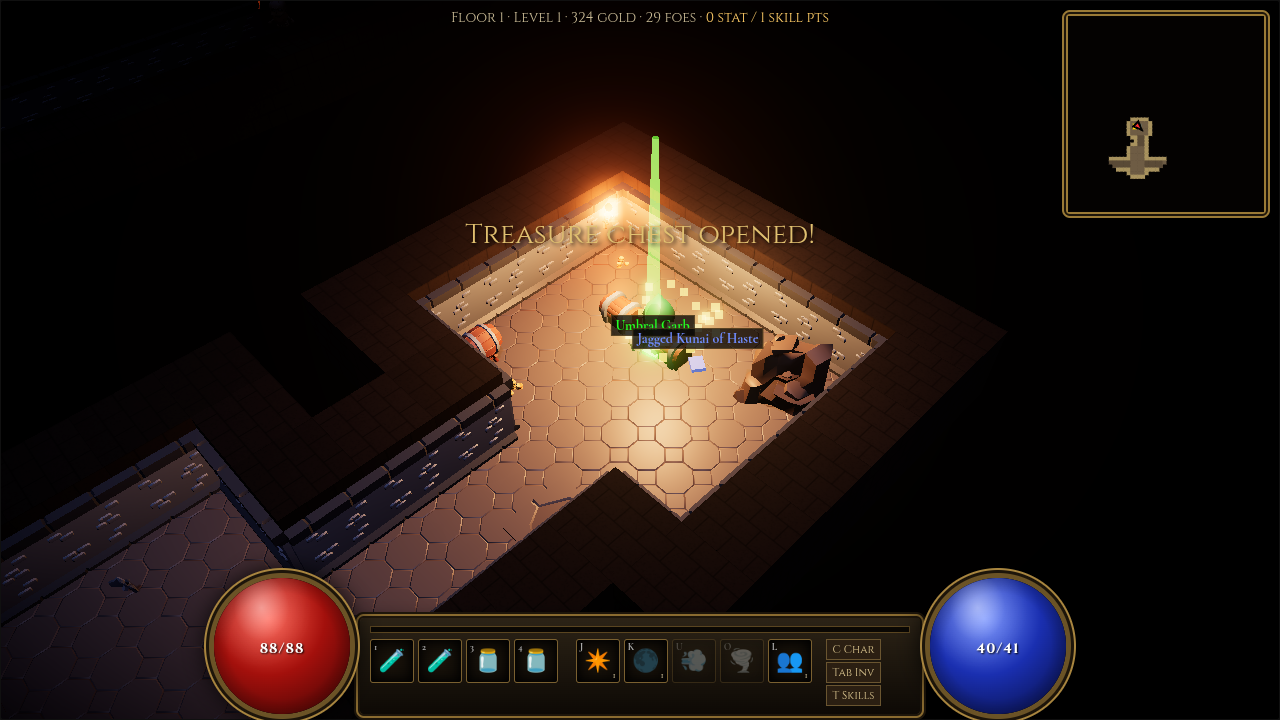
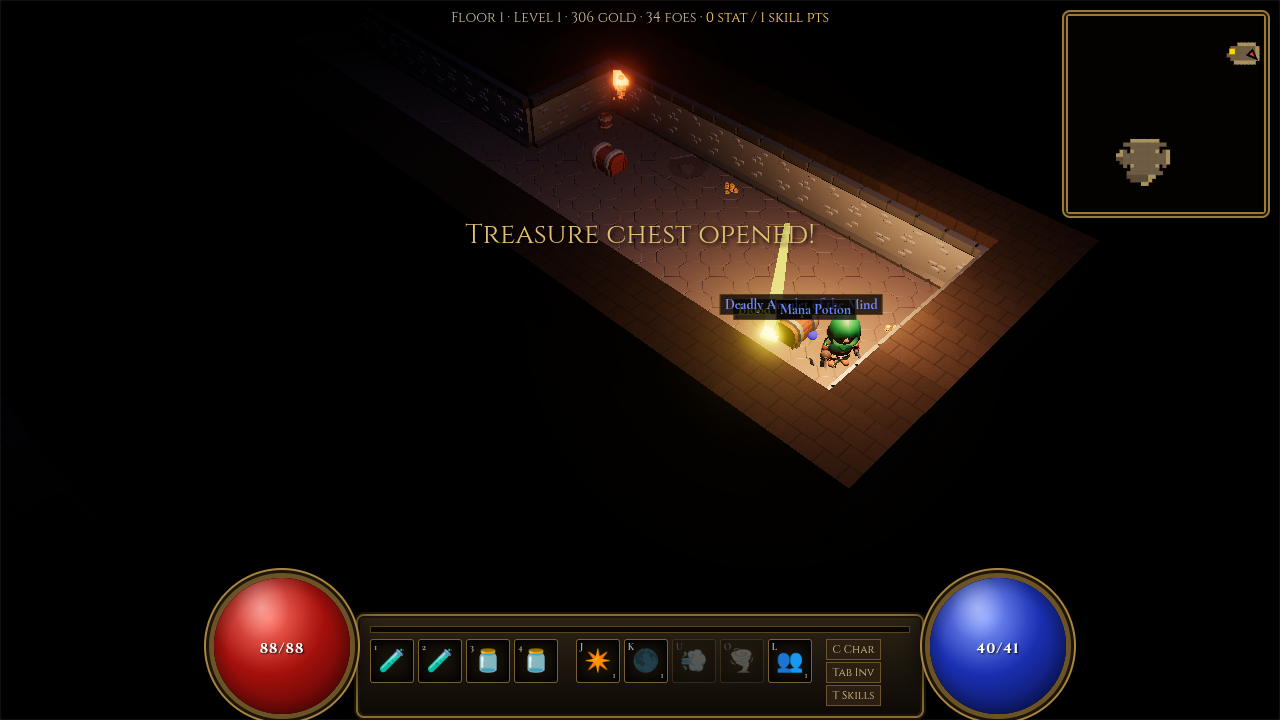
Stage 4: ability damage/CDR/life-on-hit affixes, unique effects (pierce, step reset, damage reduction), richer drops from brutes/champs/chests, char sheet stats; minimap hides with inventory

diff --git a/game.js b/game.js
@@ -138,20 +138,22 @@ const BASES=[
 const AFF={str:['Strength','+{v} to Strength',1,4],dex:['Dexterity','+{v} to Dexterity',1,4],vit:['Vitality','+{v} to Vitality',1,4],ene:['Energy','+{v} to Energy',1,4],
  life:['Life','+{v} to Life',3,8],mana:['Mana','+{v} to Mana',2,6],ed:['Enhanced Damage','+{v}% Enhanced Damage',4,10],mind:['Min Damage','+{v} to Minimum Damage',1,2],maxd:['Max Damage','+{v} to Maximum Damage',1,3],
  ias:['Attack Speed','+{v}% Increased Attack Speed',3,6],ll:['Life Steal','{v}% Life Stolen per Hit',1,1],armor:['Armor','+{v} Defense',3,8],ms:['Run Speed','+{v}% Faster Run/Walk',3,5],
- mf:['Magic Find','{v}% Better Chance of Getting Magic Items',4,8],gf:['Gold Find','{v}% Extra Gold from Monsters',6,12],regen:['Regen','Replenish Life +{v}',1,2],crit:['Crit','+{v}% Critical Strike Chance',1,3]};
-const PRE={str:'Brutal',dex:'Swift',vit:'Hale',ene:'Mystic',life:'Vital',mana:'Lucid',ed:'Cruel',mind:'Sharp',maxd:'Jagged',armor:'Sturdy',ms:'Fleet',crit:'Deadly'};
-const SUF={ias:'of Haste',ll:'of the Leech',mf:'of Fortune',gf:'of Greed',regen:'of Renewal',str:'of Might',dex:'of Skill',vit:'of Life',ene:'of the Mind',armor:'of Warding',life:'of the Whale'};
+ mf:['Magic Find','{v}% Better Chance of Getting Magic Items',4,8],gf:['Gold Find','{v}% Extra Gold from Monsters',6,12],regen:['Regen','Replenish Life +{v}',1,2],crit:['Crit','+{v}% Critical Strike Chance',1,3],sk:['Ability Damage','+{v}% Ability Damage',3,6],cdr:['Cooldown Reduction','{v}% Faster Ability Cooldowns',2,3],loh:['Life on Hit','+{v} Life on Hit',1,1]};
+const PRE={sk:'Arcane',loh:'Thirsting',str:'Brutal',dex:'Swift',vit:'Hale',ene:'Mystic',life:'Vital',mana:'Lucid',ed:'Cruel',mind:'Sharp',maxd:'Jagged',armor:'Sturdy',ms:'Fleet',crit:'Deadly'};
+const SUF={cdr:'of Quickening',ias:'of Haste',ll:'of the Leech',mf:'of Fortune',gf:'of Greed',regen:'of Renewal',str:'of Might',dex:'of Skill',vit:'of Life',ene:'of the Mind',armor:'of Warding',life:'of the Whale'};
 const RNAME1=['Grim','Dusk','Blood','Night','Ash','Raven','Doom','Storm','Bone','Wraith'],RNAME2=['Bite','Veil','Shroud','Grasp','Song','Fang','Coil','Mark','Edge','Ward'];
 const SET={name:'Umbral Regalia',pieces:{head:'Umbral Hood',chest:'Umbral Garb',gloves:'Umbral Wraps',boots:'Umbral Tabi',ring:'Umbral Seal'},
  bonus:{2:{dex:10,ms:10},3:{ed:30,life:30},5:{ias:25,crit:10,ll:4}},own:{dex:6,life:15,armor:10}};
-const UNIQ=[{n:'Whisper of the Void',b:'Katana',a:{ed:120,ias:20,ll:5,dex:10}},{n:'Crimson Fang',b:'Kunai',a:{ed:90,crit:10,maxd:6}},
- {n:'Hollow Crown',b:'Mask',a:{life:40,mf:40,ene:15}},{n:'Ashen Step',b:'Tabi Boots',a:{ms:30,dex:12,regen:4}},{n:'Eye of Nightfall',b:'Amulet',a:{str:10,dex:10,vit:10,ene:10,crit:5}},{n:'Ironsilk Shroud',b:'Chain Vest',a:{armor:80,vit:25,life:30}}];
+const UNIQ=[{n:'Whisper of the Void',b:'Katana',a:{ed:110,ias:20,ll:4,dex:10},fx:'pierce',fxt:'Shurikens pierce through up to 2 extra enemies'},
+ {n:'Crimson Fang',b:'Kunai',a:{ed:85,crit:8,maxd:6},fx:'stepreset',fxt:'Killing an enemy resets Shadow Step cooldown'},
+ {n:'Hollow Crown',b:'Mask',a:{life:35,mf:40,loh:4},fx:'',fxt:''},{n:'Ashen Step',b:'Tabi Boots',a:{ms:25,dex:12,cdr:10},fx:'',fxt:''},
+ {n:'Eye of Nightfall',b:'Amulet',a:{str:10,dex:10,vit:10,ene:10,sk:25},fx:'',fxt:''},{n:'Ironsilk Shroud',b:'Chain Vest',a:{armor:60,vit:20,life:30},fx:'dr',fxt:'Take 15% less damage from all sources'}];
 let uid=1;
 function scaleAff(k,il){const a=AFF[k];return Math.max(1,Math.round(R(a[2],a[3])*(1+il*0.18)));}
 function makeItem(il,mf=0,forced){
   let r=forced??0;if(forced==null){const x=Math.random()*100/(1+mf/100);r=x<1.2?4:x<3?3:x<12?2:x<40?1:0;}
   let base=pick(BASES),it={id:uid++,r,il,a:{},base};
-  if(r===4){const u=pick(UNIQ);base=BASES.find(b=>b.n===u.b);it.base=base;it.name=u.n;for(const k in u.a)it.a[k]=Math.round(u.a[k]*(1+il*0.05));}
+  if(r===4){const u=pick(UNIQ);base=BASES.find(b=>b.n===u.b);it.base=base;it.name=u.n;for(const k in u.a)it.a[k]=Math.round(u.a[k]*(1+il*0.05));it.fx=u.fx;it.fxt=u.fxt;}
   else if(r===3){const sl=pick(Object.keys(SET.pieces));base=BASES.find(b=>b.s===sl);it.base=base;it.name=SET.pieces[sl];it.set=true;Object.assign(it.a,SET.own);}
   else{const keys=Object.keys(AFF).sort(()=>Math.random()-.5),n=r===1?RI(1,2):r===2?RI(3,6):0;let p=null,s=null;
     for(let i=0;i<n;i++){const k=keys[i];it.a[k]=scaleAff(k,il);if(!p&&PRE[k])p=PRE[k];else if(!s&&SUF[k])s=SUF[k];}
@@ -182,7 +184,7 @@ function recalc(){S.str=P.str+stat('str');S.dex=P.dex+stat('dex');S.vit=P.vit+st
   const w=P.eq.weapon;S.dmin=(w?w.dmg[0]:1)+stat('mind');S.dmax=Math.max(S.dmin,(w?w.dmg[1]:3)+stat('maxd'));
   S.ed=stat('ed')+S.str*0.75+S.dex*0.75+P.skills.mastery*5;S.ias=stat('ias');S.crit=5+S.dex*0.1+stat('crit')+P.skills.mastery*3;
   S.armor=Object.values(P.eq).reduce((a,i)=>a+(i&&i.ar||0),0)+stat('armor')+Math.floor(S.dex/4);S.ll=stat('ll');S.ms=stat('ms');S.mf=stat('mf');S.gf=stat('gf');S.regen=stat('regen');
-  S.dodge=Math.min(40,P.skills.evasion*4);S.aps=1.7*(1+S.ias/100);}
+  S.dodge=Math.min(40,P.skills.evasion*4);S.aps=1.7*(1+S.ias/100);S.sk=stat('sk');S.cdr=Math.min(40,stat('cdr'));S.loh=stat('loh');const fx=new Set(Object.values(P.eq).filter(Boolean).map(i=>i.fx).filter(Boolean));S.pierce=fx.has('pierce');S.stepreset=fx.has('stepreset');S.dr=fx.has('dr')?15:0;}
 function rollDmg(mult=1){let d=R(S.dmin,S.dmax)*(1+S.ed/100)*mult;const c=Math.random()*100<S.crit;if(c)d*=2;return{d:Math.round(d),c};}
 const xpNeed=l=>Math.round(100*Math.pow(l,1.6));
 // ---------- meshes ----------
@@ -276,7 +278,7 @@ function popText(pos,txt,col,cls=''){if(dmgNums.length>45){const o=dmgNums.shift
 let msgT=0;function msg(t){$('#msg').textContent=t;msgT=2.5;}
 function hitEnemy(en,d,c,src){if(en.hp<=0)return;en.hp-=d;if(!en.awake){en.awake=true;enemies.forEach(o=>{if(!o.awake&&o!==en&&o.g.position.distanceTo(en.g.position)<9&&los(o.g.position,en.g.position)){o.awake=true;o.ch&&play(o.ch,'Taunt',{once:true,speed:2.2,fade:0.25});}});}popText(en.g.position,c?d+'!':d,c?'#ffb020':'#f2ece0',c?'crit':'');
   if(P.skills.venom&&src!=='poison')en.poison=3,en.pdps=(S.dmin+S.dmax)/2*0.1*P.skills.venom;
-  if(S.ll&&src!=='poison')P.hp=Math.min(S.maxhp,P.hp+d*S.ll/100);
+  if(src!=='poison'){if(S.ll)P.hp=Math.min(S.maxhp,P.hp+d*S.ll/100);if(S.loh)P.hp=Math.min(S.maxhp,P.hp+S.loh);}
   en.flash=0.12;const hp=v4.copy(en.g.position).setY(1.1);burstP(hp,c?0xffdd55:0xaa2222,c?10:5,2.5,0.25,0.4);
   if(src&&src.isVector3){const kb=src.clone().setY(0).normalize().multiplyScalar(en.t.n==='Gloom Brute'?0.15:0.35);if(free(en.g.position.x+kb.x,en.g.position.z+kb.z,en.t.r*0.8))en.g.position.add(kb);}
   if(c){hitStop=Math.max(hitStop,0.05);shake=Math.max(shake,0.15);}if(en.ch&&en.hp>0&&!en.ch.lock)play(en.ch,'Hit_A',{once:true,speed:1.6});
@@ -292,10 +294,10 @@ function enemyStrike(e){const ep=e.g.position,d=ep.distanceTo(P.pos);
   else if(d<e.t.range+0.7)hurtPlayer(e.dm);
   if(e.tel){disposeObj(e.tel.g);e.tel=null;}}
 function killEnemy(en){if(en.tel){disposeObj(en.tel.g);en.tel=null;}en.b.userData.en=null;burstP(v4.copy(en.g.position).setY(1),0xddddcc,18,4,0.3,0.7);burstP(v4,0x660000,10,2,0.4,0.9);shake=Math.max(shake,0.12);hitStop=Math.max(hitStop,0.04);
-  if(en.ch){play(en.ch,'Death_A',{once:true});corpses.push({g:en.g,ch:en.ch,t:2.2});}else disposeObj(en.g);enemies=enemies.filter(e=>e!==en);gainXp(Math.round(en.t.xp*(1+(depth-1)*0.4)*(en.champ?3:1)));
+  if(en.ch){play(en.ch,'Death_A',{once:true});corpses.push({g:en.g,ch:en.ch,t:2.2});}else disposeObj(en.g);enemies=enemies.filter(e=>e!==en);if(S.stepreset){P._stepKill=true;P.cds.step=0;popText(P.pos,'STEP READY','#c58cff','skill');}gainXp(Math.round(en.t.xp*(1+(depth-1)*0.4)*(en.champ?3:1)));
   const p=en.g.position,il=depth*2+P.lvl;
   if(Math.random()<0.55)dropGold(p,Math.round(R(3,10)*il*(1+S.gf/100)));
-  const n=en.champ?RI(1,3):Math.random()<0.35?1:0;for(let i=0;i<n;i++)dropItem(p,makeItem(il,S.mf+(en.champ?100:0)));
+  const heavy=en.t.kind==='heavy';const n=en.champ?RI(1,3):Math.random()<(heavy?0.6:0.3)?1:0;for(let i=0;i<n;i++)dropItem(p,makeItem(il+(heavy?1:0)+(en.champ?2:0),S.mf+(en.champ?100:0)+(heavy?40:0)));
   if(Math.random()<0.15)dropItem(p,{id:uid++,potion:Math.random()<.6?'hp':'mp'});}
 function gainXp(x){P.xp+=x;while(P.xp>=xpNeed(P.lvl)){P.xp-=xpNeed(P.lvl);P.lvl++;P.pts+=5;P.sp+=1;recalc();P.hp=S.maxhp;P.mp=S.maxmp;msg(`Level ${P.lvl}! +5 attribute, +1 skill point`);
   const f=new THREE.Mesh(new THREE.CylinderGeometry(1,1,6,16,1,true),new THREE.MeshBasicMaterial({color:0xffdd88,transparent:true,opacity:0.4,side:2}));f.position.copy(P.pos).setY(3);scene.add(f);fx.push({m:f,t:1});}ui();}
@@ -321,7 +323,7 @@ function unequip(slot){const it=P.eq[slot];if(!it)return;if(placeInv(it)){delete
 // ---------- tooltip ----------
 function tipHtml(it,cmp){let h=`<div class="n r${it.r}">${it.name}</div><div class="r${it.r}">${it.r===0?'':RAR[it.r]+' '}${it.base.n}</div>`;
   if(it.dmg)h+=`<div>Damage: ${it.dmg[0]} to ${it.dmg[1]}</div>`;if(it.ar)h+=`<div>Defense: ${it.ar}</div>`;h+=`<div class="g">Item Level ${it.il}</div>`;
-  for(const k in it.a)h+=`<div class="${it.set?'s':'a'}">${AFF[k][1].replace('{v}',it.a[k])}</div>`;
+  if(it.fxt)h+=`<div style="color:#ff9a30">${it.fxt}</div>`;for(const k in it.a)h+=`<div class="${it.set?'s':'a'}">${AFF[k][1].replace('{v}',it.a[k])}</div>`;
   if(it.set){h+=`<br><div class="s">${SET.name}</div>`;const n=Object.values(P.eq).filter(i=>i&&i.set).length;
     for(const t in SET.bonus)h+=`<div class="${n>=t?'s':'g'}">(${t} items) ${Object.entries(SET.bonus[t]).map(([k,v])=>AFF[k][1].replace('{v}',v)).join(', ')}</div>`;}
   h+=`<div class="g">Sell value: ${it.value} gold</div>`;if(cmp&&cmp.base)h+=compareHtml(it,cmp);else if(cmp===null)h+='<div class="g">Slot empty — pure upgrade</div>';return h;}
@@ -341,7 +343,7 @@ function ui(){recalc();
   const c=$('#char');c.innerHTML=`<h2>Nyx — Shadow Ninja</h2><div class="row"><span>Level</span><span>${P.lvl}</span></div><div class="row"><span>Experience</span><span>${P.xp} / ${xpNeed(P.lvl)}</span></div><div class="row"><span>Gold</span><span>${P.gold}</span></div>
    <div class="row"><span>Stat points</span><span>${P.pts}</span></div>`+[['str','Strength'],['dex','Dexterity'],['vit','Vitality'],['ene','Energy']].map(([k,n])=>`<div class="row attr"><span>${n}</span><span>${S[k]}${P.pts?`<button class="plus" data-a="${k}">+</button>`:''}</span></div>`).join('')+
    `<br><div class="row"><span>Damage</span><span>${Math.round(S.dmin*(1+S.ed/100))}-${Math.round(S.dmax*(1+S.ed/100))}</span></div><div class="row"><span>Attacks / sec</span><span>${S.aps.toFixed(2)}</span></div><div class="row"><span>Crit chance</span><span>${S.crit.toFixed(1)}%</span></div>
-   <div class="row"><span>Defense</span><span>${S.armor}</span></div><div class="row"><span>Life</span><span>${Math.round(S.maxhp)}</span></div><div class="row"><span>Mana</span><span>${Math.round(S.maxmp)}</span></div><div class="row"><span>Life steal</span><span>${S.ll}%</span></div><div class="row"><span>Magic find</span><span>${S.mf}%</span></div><div class="row"><span>Dodge</span><span>${S.dodge}%</span></div>`;
+   <div class="row"><span>Defense</span><span>${S.armor}</span></div><div class="row"><span>Life</span><span>${Math.round(S.maxhp)}</span></div><div class="row"><span>Mana</span><span>${Math.round(S.maxmp)}</span></div><div class="row"><span>Life steal</span><span>${S.ll}%</span></div><div class="row"><span>Magic find</span><span>${S.mf}%</span></div><div class="row"><span>Dodge</span><span>${S.dodge}%</span></div><div class="row"><span>Ability damage</span><span>+${S.sk}%</span></div><div class="row"><span>Cooldown reduction</span><span>${S.cdr}%</span></div><div class="row"><span>Damage taken (vs 10 hit)</span><span>${Math.max(1,Math.round(10*100/(100+S.armor)*(1-S.dr/100)))}</span></div>${S.pierce?'<div class="row" style="color:#ff9a30"><span>Shurikens pierce</span><span>✓</span></div>':''}${S.stepreset?'<div class="row" style="color:#ff9a30"><span>Kill resets Shadow Step</span><span>✓</span></div>':''}`;
   c.innerHTML+='<p class="small">↑↓ select attribute · Enter spend point · Esc close</p>';c.querySelectorAll('[data-a]').forEach(b=>b.onclick=()=>{P[b.dataset.a]++;P.pts--;ui();});
   const tr=$('#tree');let th=`<h2>Skill Tree — ${P.sp} point(s)</h2>`;
   for(const t of [1,2,3]){th+=`<div style="color:#998;margin-top:6px">Tier ${t} (level ${TIERLVL[t]})</div>`;for(const k in SK){const s=SK[k];if(s.t!==t)continue;const r=P.skills[k];
@@ -452,15 +454,15 @@ function attackAt(p){if(P.atkCd>0)return;P.atkCd=1/S.aps;faceTo(p);playP('Throw'
 }
 function nearest(maxD=14){let b=null,bd=maxD;enemies.forEach(e=>{const d=e.g.position.distanceTo(P.pos);if(d<bd){bd=d;b=e;}});return b;}
 function burst(p,col,rad){const m=new THREE.Mesh(new THREE.SphereGeometry(rad,16,12),new THREE.MeshBasicMaterial({color:col,transparent:true,opacity:0.5}));m.position.copy(p).setY(0.8);scene.add(m);fx.push({m,t:0.5,grow:1});}
-function cast(k){const r=P.skills[k];if(!r||P.dead)return;const s=SK[k];if((P.cds[k]||0)>0)return;if(P.mp<s.mana){msg('Not enough mana');return;}
+function cast(k){const r=P.skills[k];if(!r||P.dead)return;P._stepKill=false;const s=SK[k];if((P.cds[k]||0)>0)return;if(P.mp<s.mana){msg('Not enough mana');return;}
   if(k==='step'){const en=hoverEn||nearest();if(!en){msg('No target');return;}const ep=en.g.position,back=new THREE.Vector3(ep.x-P.pos.x,0,ep.z-P.pos.z).normalize();
     const np=ep.clone().add(back.multiplyScalar(1.2));const from=P.pos.clone();burst(P.pos,0x220044,0.8);for(let i=0;i<30;i++)particle(v4.copy(from).setY(R(0.2,1.6)),0x444455,0.9,0.9,1.2,0.3);if(free(np.x,np.z))P.pos.copy(np);else P.pos.copy(ep).add(back.multiplyScalar(-0.9));
-    faceTo(ep);for(let i=0;i<=12;i++)particle(v4.lerpVectors(from,P.pos,i/12).setY(1),0x8a2be2,0.5,0.5,0.3,0.2);burst(P.pos,0x6611aa,0.8);burstP(v4.copy(P.pos).setY(1),0x9933ff,25,4,0.35,0.6);shake=Math.max(shake,0.2);playP('Dualwield_Melee_Attack_Stab',1.6);const {d,c}=rollDmg((150+40*r)/100);hitEnemy(en,d,c,back.clone());popText(ep,'SHADOW STEP','#c58cff','skill');hitStop=Math.max(hitStop,0.06);P.target=null;}
-  if(k==='smoke'){burst(P.pos,0x777777,4);for(let i=0;i<40;i++)particle(v4.copy(P.pos).setY(0.6),0x666677,1.2,1.4,4,0.3);playP('Throw',1.5);enemies.forEach(e=>{if(e.g.position.distanceTo(P.pos)<4.5){e.stun=1.5+r*0.25;const {d,c}=rollDmg((80+30*r)/100);hitEnemy(e,d,c);}});}
-  if(k==='flurry'){burst(P.pos,0xaaaacc,3);playP('2H_Melee_Attack_Spin',1.8);for(let i=0;i<30;i++){const a=i/30*6.28;particle(v4.set(P.pos.x+Math.cos(a)*2.5,1,P.pos.z+Math.sin(a)*2.5),0xccccff,0.3,0.4,0.5);}shake=Math.max(shake,0.15);enemies.slice().forEach(e=>{if(e.g.position.distanceTo(P.pos)<3.2){const {d,c}=rollDmg((200+50*r)/100);hitEnemy(e,d,c);}});}
+    faceTo(ep);for(let i=0;i<=12;i++)particle(v4.lerpVectors(from,P.pos,i/12).setY(1),0x8a2be2,0.5,0.5,0.3,0.2);burst(P.pos,0x6611aa,0.8);burstP(v4.copy(P.pos).setY(1),0x9933ff,25,4,0.35,0.6);shake=Math.max(shake,0.2);playP('Dualwield_Melee_Attack_Stab',1.6);const {d,c}=rollDmg((150+40*r)/100*(1+S.sk/100));hitEnemy(en,d,c,back.clone());popText(ep,'SHADOW STEP','#c58cff','skill');hitStop=Math.max(hitStop,0.06);P.target=null;}
+  if(k==='smoke'){burst(P.pos,0x777777,4);for(let i=0;i<40;i++)particle(v4.copy(P.pos).setY(0.6),0x666677,1.2,1.4,4,0.3);playP('Throw',1.5);enemies.forEach(e=>{if(e.g.position.distanceTo(P.pos)<4.5){e.stun=1.5+r*0.25;const {d,c}=rollDmg((80+30*r)/100*(1+S.sk/100));hitEnemy(e,d,c);}});}
+  if(k==='flurry'){burst(P.pos,0xaaaacc,3);playP('2H_Melee_Attack_Spin',1.8);for(let i=0;i<30;i++){const a=i/30*6.28;particle(v4.set(P.pos.x+Math.cos(a)*2.5,1,P.pos.z+Math.sin(a)*2.5),0xccccff,0.3,0.4,0.5);}shake=Math.max(shake,0.15);enemies.slice().forEach(e=>{if(e.g.position.distanceTo(P.pos)<3.2){const {d,c}=rollDmg((200+50*r)/100*(1+S.sk/100));hitEnemy(e,d,c);}});}
   if(k==='clone'){P.clones.forEach(disposeObj);P.clones=[0,1].map(i=>{const c=ninjaMesh(true);scene.add(c);return c;});P.cloneT=10;P.clones.forEach((c,i)=>c.userData.cd=i*0.3);burst(P.pos,0x440088,1.5);burstP(v4.copy(P.pos).setY(1),0xaa44ff,40,5,0.4,0.8);P.clones.forEach((c,i)=>{const side=new THREE.Vector3(i?2:-2,0,i?-2:2);let pos=P.pos.clone().add(side);if(!free(pos.x,pos.z))pos=P.pos.clone().sub(side);if(!free(pos.x,pos.z))pos=P.pos.clone();c.position.copy(pos);c.rotation.y=pMesh.rotation.y;burstP(v4.copy(pos).setY(1),0xaa44ff,16,3,0.35,0.6);});msg('Shadow Clone!');}
-  P.mp-=s.mana;P.cds[k]=s.cd(r);}
-function hurtPlayer(d){if(P.dead||P.grace>0)return;if(Math.random()*100<S.dodge){popText(P.pos,'Dodge','#9cf');return;}d=Math.max(1,Math.round(d*100/(100+S.armor)));P.hp-=d;popText(P.pos,d,'#ff4040','hurt');
+  P.mp-=s.mana;P.cds[k]=s.cd(r)*(1-S.cdr/100);if(k==='step'&&P._stepKill)P.cds.step=0;}
+function hurtPlayer(d){if(P.dead||P.grace>0)return;if(Math.random()*100<S.dodge){popText(P.pos,'Dodge','#9cf');return;}d=Math.max(1,Math.round(d*100/(100+S.armor)*(1-S.dr/100)));P.hp-=d;popText(P.pos,d,'#ff4040','hurt');
   if(P.hp<=0){P.dead=true;P.hp=0;const lost=Math.floor(P.gold*0.2);P.gold-=lost;setTimeout(()=>$('#death').classList.remove('hidden'),900);playP('Death_A');shake=0.3;}}
 // ---------- loop ----------
 const clock=new THREE.Clock();const v3=new THREE.Vector3();
@@ -502,7 +504,7 @@ function tick(){requestAnimationFrame(tick);let dt=Math.min(clock.getDelta(),0.0
       let goal=null,spd=5.2;
       if(b){const to=v4.copy(b.g.position).sub(c.position).setY(0);u.face=Math.atan2(to.x,to.z);
         if(bd>7.5)goal=b.g.position.clone();else if(bd<3.5)goal=c.position.clone().addScaledVector(to.normalize(),-2);
-        if(u.cd<=0&&bd<=9){u.cd=1/S.aps*R(0.9,1.2);u.ch&&play(u.ch,'Throw',{once:true,speed:2});throwFan(c.position,to.clone().normalize(),(1+0.15*P.skills.shuriken)*(0.5+0.1*P.skills.clone),3);}}
+        if(u.cd<=0&&bd<=9){u.cd=1/S.aps*R(0.9,1.2);u.ch&&play(u.ch,'Throw',{once:true,speed:2});throwFan(c.position,to.clone().normalize(),(1+0.15*P.skills.shuriken)*(0.5+0.1*P.skills.clone)*(1+S.sk/100),3);}}
       else{const slot=new THREE.Vector3(P.pos.x+(ci?2.2:-2.2),0,P.pos.z+(ci?-1:1)*0.8+1.6);if(slot.distanceTo(c.position)>1.2&&(c.position.distanceTo(P.pos)>3.2||u.follow)){u.follow=slot.distanceTo(c.position)>0.6;goal=slot;}else u.follow=false;
         if(c.position.distanceTo(P.pos)>14){c.position.copy(slot);burstP(v4.copy(slot).setY(1),0x9933ff,10,2,0.3,0.5);}}
       if(goal){const before=c.position.clone();moveToward(c.position,goal,spd,dt,0.3);if(before.distanceToSquared(c.position)>1e-6){u.moving=true;if(!b){const d2=v4.copy(c.position).sub(before);u.face=Math.atan2(d2.x,d2.z);}}}
@@ -511,7 +513,7 @@ function tick(){requestAnimationFrame(tick);let dt=Math.min(clock.getDelta(),0.0
   // projectiles
   projs=projs.filter(p=>{p.t-=dt;p.m.position.addScaledVector(p.v,dt);p.m.rotation.z+=dt*25;if(Math.random()<dt*30)particle(p.m.position,0x8899ff,0.18,0.25,0.2,0);
     if(!walk(p.m.position.x,p.m.position.z))p.t=0;
-    for(const e of enemies){if(!p.hit.has(e)&&e.g.position.distanceTo(v3.copy(p.m.position).setY(0))<e.t.r+0.35){p.hit.add(e);const {d,c}=rollDmg(p.mult);hitEnemy(e,d,c,p.v);p.t=0;break;}}
+    for(const e of enemies){if(!p.hit.has(e)&&e.g.position.distanceTo(v3.copy(p.m.position).setY(0))<e.t.r+0.35){p.hit.add(e);const {d,c}=rollDmg(p.mult);hitEnemy(e,d,c,p.v);if(!(S.pierce&&p.hit.size<3))p.t=0;break;}}
     if(p.t<=0){scene.remove(p.m);shPool.push(p.m);if(p.hit.size)burstP(p.m.position,0xffffff,4,3,0.15,0.2);return false;}return true;});
   eprojs=eprojs.filter(p=>{p.t-=dt;p.m.position.addScaledVector(p.v,dt);if(!walk(p.m.position.x,p.m.position.z))p.t=0;
     if(v3.copy(p.m.position).setY(0).distanceTo(P.pos)<0.5){hurtPlayer(p.d);p.t=0;}if(p.t<=0){scene.remove(p.m);return false;}return true;});
@@ -540,14 +542,14 @@ function tick(){requestAnimationFrame(tick);let dt=Math.min(clock.getDelta(),0.0
     enemies.forEach(o=>{if(o!==e){const dd=ep.distanceTo(o.g.position);if(dd<e.t.r+o.t.r&&dd>0.001){v3.subVectors(ep,o.g.position).setY(0).multiplyScalar(Math.min(0.08,(e.t.r+o.t.r-dd)*0.5)/dd);if(free(ep.x+v3.x,ep.z+v3.z,e.t.r*0.8))ep.add(v3);}}});});
   fx=fx.filter(f=>{f.t-=dt;f.m.material.opacity=Math.max(0,f.t);if(f.grow)f.m.scale.multiplyScalar(1+dt*2);if(f.t<=0){disposeObj(f.m);return false;}return true;});
   fires.forEach((f,i)=>{f.scale.y=1+Math.sin(t*15+i)*0.2;if(f.userData.light)f.userData.light.intensity=26+Math.sin(t*13+i*3)*4+Math.random()*5;if(Math.random()<dt*20)particle(f.getWorldPosition(v4),0xff7020,0.6,1.2,0.25);});drops.forEach(d=>{if(d.item)d.m.rotation.y+=dt;});
-  mmT-=dt;if(mmT<=0){mmT=0.15;revealFog();drawMinimap();}stairs&&stairs.children[0]&&(stairs.children[0].rotation.z+=dt*1.5);
+  mm.style.visibility=$('#inv').classList.contains('hidden')?'visible':'hidden';mmT-=dt;if(mmT<=0){mmT=0.15;revealFog();drawMinimap();}stairs&&stairs.children[0]&&(stairs.children[0].rotation.z+=dt*1.5);
   // overlays
   drops.forEach(d=>project(d.m.position,d.el,0.6));
   for(let i=dmgNums.length-1;i>=0;i--){const n=dmgNums[i];n.t-=dt;n.p.y+=dt*1.5;project(n.p,n.el);n.el.style.opacity=n.t;if(n.t<=0){n.el.remove();dmgNums.splice(i,1);}}
   $('#hpOrb .fill').style.height=(P.hp/S.maxhp*100)+'%';$('#hpOrb span').textContent=`${Math.ceil(P.hp)}/${Math.round(S.maxhp)}`;
   $('#mpOrb .fill').style.height=(P.mp/S.maxmp*100)+'%';$('#mpOrb span').textContent=`${Math.floor(P.mp)}/${Math.round(S.maxmp)}`;
   $('#xpbar .fill').style.width=(P.xp/xpNeed(P.lvl)*100)+'%';
-  for(const k of ['step','smoke','flurry','clone']){const el=document.getElementById('cd_'+k);if(el)el.style.height=Math.max(0,(P.cds[k]||0)/SK[k].cd(P.skills[k]||1)*100)+'%';}
+  for(const k of ['step','smoke','flurry','clone']){const el=document.getElementById('cd_'+k);if(el)el.style.height=Math.max(0,(P.cds[k]||0)/(SK[k].cd(P.skills[k]||1)*(1-S.cdr/100))*100)+'%';}
   const he=hoverEn||(()=>{let b=null;enemies.forEach(e=>{if(e.awake&&(!b||e.g.position.distanceTo(P.pos)<b.g.position.distanceTo(P.pos)))b=e;});return b&&b.g.position.distanceTo(P.pos)<12?b:null;})();$('#topinfo').innerHTML=he?`<span style="color:${he.champ?'#68f':'#eee'}">${he.name}</span> — ${Math.ceil(he.hp)}/${Math.ceil(he.maxhp)}`:`Floor ${depth} · Level ${P.lvl} · ${P.gold} gold · ${enemies.length} foes${P.pts||P.sp?` · <span style="color:#fc6">${P.pts} stat / ${P.sp} skill pts</span>`:''}`;
   if(msgT>0){msgT-=dt;if(msgT<=0)$('#msg').textContent='';}
   LOW?renderer.render(scene,camera):composer.render();}
@@ -556,4 +558,4 @@ recalc();P.eq.weapon=makeItem(1,0,0);P.eq.weapon.base=BASES[0];P.eq.weapon.name=
 newLevel();ui();tick();
 $('#start').onclick=()=>{$('#title').remove();running=true;clock.getDelta();renderer.domElement.focus();};$('#start').disabled=false;$('#start').textContent='Enter the Depths';
 let frames=0;(function fc(){frames++;requestAnimationFrame(fc);})();
-window.__game={stuckScan:()=>{let bad=0,tested=0;for(let i=0;i<N;i++)for(let j=0;j<N;j++){if(!grid[i][j])continue;for(const [ox,oz] of [[0.5,0.5],[0.15,0.15],[0.85,0.85],[0.15,0.85]]){const x=(i+ox)*T,z=(j+oz)*T;if(!free(x,z,0.35))continue;tested++;let ok=0;for(let a=0;a<8;a++){const dx=Math.cos(a*0.785)*0.3,dz=Math.sin(a*0.785)*0.3;if(free(x+dx,z,0.35)||free(x,z+dz,0.35))ok++;}if(!ok)bad++;}}return {tested,bad};},genLayout,checkLayout,chests:()=>chests,fog:()=>fogExplored,layout:()=>layout,openChest:c=>openChest(c),pickupNearest:()=>pickupNearest(),depthSet:d=>{depth=d;},animStates:()=>enemies.map(e=>e.ch?(e.ch.cur?e.ch.cur.getClip().name+(e.ch.cur.isRunning()||e.ch.cur.paused===false?'':'(stopped)'):'NONE'):'noch'),dlgOpen:()=>!!dlg,arrowsFired:()=>window.__arrows||0,free:(x,z)=>free(x,z),V:THREE.Vector3,setDepth:d=>{depth=d;newLevel();},newLevel:()=>newLevel(),eprojCount:()=>eprojs.length,ap:()=>activePanel,los:(a,b)=>los(a,b),hurt:d=>hurtPlayer(d),selCur:()=>sel.cur,grid:()=>grid,stairs:()=>stairs,drops:()=>drops,depth:()=>depth,frames:()=>frames,info:()=>({geo:renderer.info.memory.geometries,tex:renderer.info.memory.textures,prog:renderer.info.programs.length,children:scene.children.length,labels:$('#labels').children.length}),P,enemies:()=>enemies,cast,attackAt,start:()=>$('#start').click(),makeItem,placeInv,ui,dropItem};
+window.__game={equip:it=>equip(it),cast:k=>cast(k),S,recalc:()=>recalc(),rollDmg:m=>rollDmg(m),hurt2:d=>hurtPlayer(d),stat:k=>stat(k),UNIQ,SET,BASES,throwFan:(f,d,m,n)=>throwFan(f,d,m,n),spawnAt:(x,z)=>spawnEnemy(x,z,false),stuckScan:()=>{let bad=0,tested=0;for(let i=0;i<N;i++)for(let j=0;j<N;j++){if(!grid[i][j])continue;for(const [ox,oz] of [[0.5,0.5],[0.15,0.15],[0.85,0.85],[0.15,0.85]]){const x=(i+ox)*T,z=(j+oz)*T;if(!free(x,z,0.35))continue;tested++;let ok=0;for(let a=0;a<8;a++){const dx=Math.cos(a*0.785)*0.3,dz=Math.sin(a*0.785)*0.3;if(free(x+dx,z,0.35)||free(x,z+dz,0.35))ok++;}if(!ok)bad++;}}return {tested,bad};},genLayout,checkLayout,chests:()=>chests,fog:()=>fogExplored,layout:()=>layout,openChest:c=>openChest(c),pickupNearest:()=>pickupNearest(),depthSet:d=>{depth=d;},animStates:()=>enemies.map(e=>e.ch?(e.ch.cur?e.ch.cur.getClip().name+(e.ch.cur.isRunning()||e.ch.cur.paused===false?'':'(stopped)'):'NONE'):'noch'),dlgOpen:()=>!!dlg,arrowsFired:()=>window.__arrows||0,free:(x,z)=>free(x,z),V:THREE.Vector3,setDepth:d=>{depth=d;newLevel();},newLevel:()=>newLevel(),eprojCount:()=>eprojs.length,ap:()=>activePanel,los:(a,b)=>los(a,b),hurt:d=>hurtPlayer(d),selCur:()=>sel.cur,grid:()=>grid,stairs:()=>stairs,drops:()=>drops,depth:()=>depth,frames:()=>frames,info:()=>({geo:renderer.info.memory.geometries,tex:renderer.info.memory.textures,prog:renderer.info.programs.length,children:scene.children.length,labels:$('#labels').children.length}),P,enemies:()=>enemies,cast,attackAt,start:()=>$('#start').click(),makeItem,placeInv,ui,dropItem};
